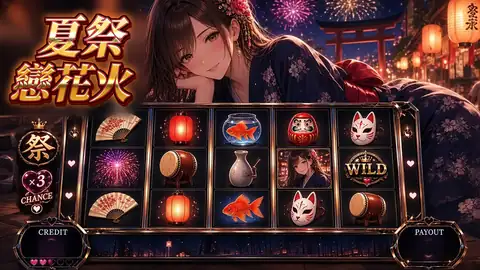
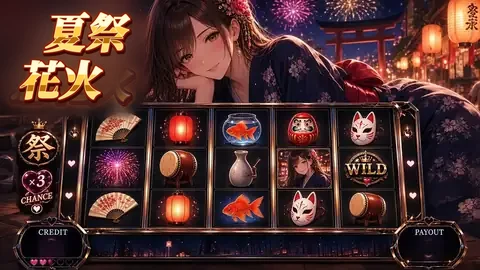
v21.8 rename: dragon-fortune-palace, 夏祭花火

Changed region(s): [[0.0, 0.0, 0.3125, 0.4148]]

diff --git a/index.html b/index.html
@@ -2,12 +2,12 @@
 <meta name="viewport" content="width=device-width,initial-scale=1,viewport-fit=cover">
 <title>龍運金殿 DRAGON FORTUNE PALACE｜僅供娛樂</title>
 <meta property="og:title" content="龍運金殿｜僅供娛樂・虛擬籌碼"><meta property="og:description" content="龍運金殿：虛擬籌碼娛樂城。僅供娛樂・虛擬籌碼・無真實金錢。"><meta property="og:image" content="assets/logo21.webp"><meta name="application-name" content="龍運金殿"><meta name="description" content="虛擬籌碼的日系柏青嫂風格娛樂城。僅供娛樂・虛擬籌碼・無真實金錢。">
-<link rel="preload" href="assets/lobby/bg.webp?v=217" as="image">
+<link rel="preload" href="assets/lobby/bg.webp?v=218" as="image">
 <style>
-@font-face{font-family:"KleeSub";src:url(assets/fonts/klee-sub.woff2?v=217) format("woff2");font-weight:600;font-display:swap}
+@font-face{font-family:"KleeSub";src:url(assets/fonts/klee-sub.woff2?v=218) format("woff2");font-weight:600;font-display:swap}
 *{box-sizing:border-box}html,body{margin:0;height:100%}
 body{background:#07020a;color:#fbe9f3;font-family:"Noto Sans TC","Noto Sans CJK TC",sans-serif;overflow-x:hidden;-webkit-tap-highlight-color:transparent}
-body::before{content:"";position:fixed;inset:0;z-index:-2;background:url(assets/lobby/bg.webp?v=217) center 30%/cover no-repeat}
+body::before{content:"";position:fixed;inset:0;z-index:-2;background:url(assets/lobby/bg.webp?v=218) center 30%/cover no-repeat}
 body::after{content:"";position:fixed;inset:0;z-index:-1;background:linear-gradient(180deg,rgba(7,2,10,.55),rgba(7,2,10,.25) 30%,rgba(7,2,10,.7) 70%,rgba(7,2,10,.95))}
 @media (min-width:800px){body::before{background-size:auto 140%;background-position:center 30%;box-shadow:inset 0 0 0 100vmax rgba(0,0,0,0)}body{background:radial-gradient(ellipse at 50% 20%,#2a0a26,#07020a 70%)}}
 button{font:inherit;color:inherit;cursor:pointer;touch-action:manipulation}
@@ -105,11 +105,11 @@ html,body{background-color:#1a0618}
 @keyframes mq2{from{transform:translateX(0)}to{transform:translateX(-50%)}}
 @media (max-width:440px){.top{gap:4px}.pill{height:34px;padding:0 9px}.bal b{font-size:16px}.coin{width:17px;height:17px}.ib{width:31px!important;height:31px!important;font-size:14px!important;flex:none}.top .sp{flex:1 1 0;min-width:0}}
 @media (max-width:370px){.ib{width:29px!important;height:29px!important;font-size:13px!important}.lv{max-width:30vw;padding:0 8px}.top{gap:3px}}
-</style><link rel="stylesheet" href="gallery.css?v=217"><style id="tcd184">@font-face{font-family:"TCDisp";src:url(assets/fonts/tcdisp.woff2?v=217) format("woff2");font-weight:900;font-display:swap}
+</style><link rel="stylesheet" href="gallery.css?v=218"><style id="tcd184">@font-face{font-family:"TCDisp";src:url(assets/fonts/tcdisp.woff2?v=218) format("woff2");font-weight:900;font-display:swap}
 .neon2{font-family:"TCDisp","Noto Serif TC",serif!important;font-weight:900!important;font-style:italic!important;letter-spacing:.12em!important}
 .card .t b{font:900 italic 19px/1.2 "TCDisp","Noto Serif TC",serif!important;letter-spacing:.02em;background:linear-gradient(#fff8d8,#ffd56a 55%,#d08a1a);-webkit-background-clip:text;background-clip:text;color:transparent;filter:drop-shadow(1px 2px 0 #3a0418)}
 </style></head><body>
-<div id="load"><img class="l21logo" src="assets/logo21.webp?v=217" alt="龍運金殿" width="900" height="420"><div class="lb"><i id="lbi"></i></div><button id="enter">點擊進入 ♡ 點擊開始</button><small>僅供娛樂・虛擬籌碼・無真實金錢</small></div>
+<div id="load"><img class="l21logo" src="assets/logo21.webp?v=218" alt="龍運金殿" width="900" height="420"><div class="lb"><i id="lbi"></i></div><button id="enter">點擊進入 ♡ 點擊開始</button><small>僅供娛樂・虛擬籌碼・無真實金錢</small></div>
 <div class="wrap">
 <div class="top">
 <div class="pill bal" aria-label="虛擬籌碼餘額"><span class="coin"></span><b id="bal">0</b></div>
@@ -121,7 +121,7 @@ html,body{background-color:#1a0618}
 <button class="ib" id="bLb" aria-label="排行榜">🏆</button>
 <button class="ib" id="bBgm" aria-label="背景音樂" aria-pressed="true">🎵</button>
 </div>
-<header class="sign"><img class="l21logo l21logoT" src="assets/logo21.webp?v=217" alt="龍運金殿" width="900" height="420"></header>
+<header class="sign"><img class="l21logo l21logoT" src="assets/logo21.webp?v=218" alt="龍運金殿" width="900" height="420"></header>
 <div class="mq" aria-hidden="true"><div id="mq"></div></div><div class="czno">僅供娛樂・虛擬籌碼・無真實金錢</div>
 <section class="jp" aria-label="彩金池">
 <div class="jpc g"><small>GRAND JACKPOT</small><b id="jp2">0</b></div>
@@ -137,14 +137,14 @@ html,body{background-color:#1a0618}
 <dialog id="dFree"><h3>免費籌碼</h3><div class="row"><div class="x"><b id="fAmt">每 3 小時可領一次</b><small id="fTxt"></small></div><button class="btn hot" id="fClaim">領取</button></div><p class="note">VIP 等級越高，每次可領越多・虛擬籌碼</p><button class="btn close" data-close>關閉</button></dialog>
 <dialog id="dMiss"><h3>今日任務</h3><div id="miss"></div><h3 style="margin-top:14px">成就</h3><div id="ach"></div><button class="btn close" data-close>關閉</button></dialog>
 <dialog id="dLb"><h3>排行榜</h3><span class="warn">⚠ 示範資料：除「你」以外皆為虛構玩家，非真實排名</span><table class="lbt" id="lbt"></table><p class="note">依累積贏得虛擬籌碼排序・僅供娛樂</p><button class="btn close" data-close>關閉</button></dialog>
-<script src="casino.js?v=217"></script>
+<script src="casino.js?v=218"></script>
 <script>
 (()=>{const $=id=>document.getElementById(id),LS=localStorage,fmt=n=>Math.floor(n).toLocaleString('en-US');
 const GAMES=[
-{id:'matsuri',href:'matsuri.html',name:'夏祭戀花火',img:'assets/matsuri/card.webp?v=217',tags:['RTP 94.0%','低波動','免費遊戲 ×2倍'],rib:'和風祭典'},
-{id:'samurai',href:'samurai.html',name:'天下布武',img:'assets/samurai/card.webp?v=217',tags:['RTP 93.9%','高波動','免費遊戲 ×3倍'],rib:'NEW'},
-{id:'neko',href:'neko.html',name:'招財大作戰',img:'assets/neko/card.webp?v=217',tags:['RTP 94.0%','低波動','免費遊戲 ×2倍'],rib:'NEW'},
-{id:'sakura',href:'sakura.html',name:'櫻花斬',img:'assets/sakura/card.webp?v=217',tags:['RTP 94.1%','中波動','免費遊戲 ×3倍'],rib:'NEW'}];
+{id:'matsuri',href:'matsuri.html',name:'夏祭花火',img:'assets/matsuri/card.webp?v=218',tags:['RTP 94.0%','低波動','免費遊戲 ×2倍'],rib:'和風祭典'},
+{id:'samurai',href:'samurai.html',name:'天下布武',img:'assets/samurai/card.webp?v=218',tags:['RTP 93.9%','高波動','免費遊戲 ×3倍'],rib:'NEW'},
+{id:'neko',href:'neko.html',name:'招財大作戰',img:'assets/neko/card.webp?v=218',tags:['RTP 94.0%','低波動','免費遊戲 ×2倍'],rib:'NEW'},
+{id:'sakura',href:'sakura.html',name:'櫻花斬',img:'assets/sakura/card.webp?v=218',tags:['RTP 94.1%','中波動','免費遊戲 ×3倍'],rib:'NEW'}];
 $('wall').innerHTML=GAMES.map(g=>`<a class="card" href="${g.href}" data-id="${g.id}"><span class="rib">${g.rib}</span><img src="${g.img}" alt="${g.name}" loading="lazy" decoding="async" width="720" height="405"><div class="meta"><div class="t"><b>${g.name}</b><small>${g.tags.map(t=>`<span class="tag">${t}</span>`).join('')}</small></div><span class="play">PLAY</span></div></a>`).join('')+
 `<div class="card lock" aria-hidden="true"><div class="ph">COMING SOON</div><div class="meta"><div class="t"><b>新機台 準備中</b><small><span class="tag">敬請期待</span></small></div></div></div>`;
 // ---- UI refresh ----
@@ -194,12 +194,12 @@ function note(f,t,d,type,g,dest){const o=ac.createOscillator(),e=ac.createGain()
 const CH=[[57,60,64,67],[53,57,60,64],[55,59,62,65],[52,55,59,62]],mf=m=>440*Math.pow(2,(m-69)/12);let bar=0,nextT=0;
 function sched(){if(!ac||!bgmOn)return;while(nextT<ac.currentTime+1.2){const c=CH[bar%4],t=nextT;c.forEach(m=>note(mf(m),t,3.6,'sine',.035));note(mf(c[0]-12),t,3.4,'triangle',.06);
 [0,.5,1,1.5,2,2.5,3,3.5].forEach((k,i)=>{if(i%2||Math.random()<.5)note(mf(c[(i+bar)%4]+12),t+k,.45,'triangle',.022)});nextT+=4;bar++}}
-let lbB=null,lbS=null,lbL=0;function lbLoad(){if(lbL||!ac)return;lbL=1;fetch('assets/audio/bgm_lobby.mp3?v=217').then(r=>r.arrayBuffer()).then(a=>new Promise((o,n)=>{const p=ac.decodeAudioData(a,o,n);p&&p.then&&p.then(o,n)})).then(b=>{lbB=b;if(bgmOn)bgmStart()}).catch(()=>{})}
+let lbB=null,lbS=null,lbL=0;function lbLoad(){if(lbL||!ac)return;lbL=1;fetch('assets/audio/bgm_lobby.mp3?v=218').then(r=>r.arrayBuffer()).then(a=>new Promise((o,n)=>{const p=ac.decodeAudioData(a,o,n);p&&p.then&&p.then(o,n)})).then(b=>{lbB=b;if(bgmOn)bgmStart()}).catch(()=>{})}
 function bgmStart(){aInit();if(!ac)return;lbLoad();if(lbB){ac.resume&&ac.resume();clearInterval(bgmT);if(bgmOn){if(!lbS){lbS=ac.createBufferSource();lbS.buffer=lbB;lbS.loop=true;lbS.connect(mg);lbS.start()}mg.gain.cancelScheduledValues(ac.currentTime);mg.gain.setValueAtTime(mg.gain.value,ac.currentTime);mg.gain.linearRampToValueAtTime(.55,ac.currentTime+1.5)}return}
 bgmStart0()}
 function bgmStart0(){aInit();if(!ac)return;ac.resume&&ac.resume();if(bgmOn){mg.gain.cancelScheduledValues(ac.currentTime);mg.gain.linearRampToValueAtTime(.9,ac.currentTime+1.5);nextT=Math.max(nextT,ac.currentTime+.05);clearInterval(bgmT);bgmT=setInterval(sched,400);sched()}}
 function bgmFade(){if(ac&&mg)mg.gain.linearRampToValueAtTime(0,ac.currentTime+.25)}
-const LSX={};function lsxL(n){if(LSX[n]!==undefined||!ac)return;LSX[n]=0;fetch('assets/audio/sfx_'+n+'.mp3?v=217').then(r=>r.arrayBuffer()).then(a=>new Promise((o,x)=>{const p=ac.decodeAudioData(a,o,x);p&&p.then&&p.then(o,x)})).then(b=>LSX[n]=b).catch(()=>{})}
+const LSX={};function lsxL(n){if(LSX[n]!==undefined||!ac)return;LSX[n]=0;fetch('assets/audio/sfx_'+n+'.mp3?v=218').then(r=>r.arrayBuffer()).then(a=>new Promise((o,x)=>{const p=ac.decodeAudioData(a,o,x);p&&p.then&&p.then(o,x)})).then(b=>LSX[n]=b).catch(()=>{})}
 function sfx(k){if(!ac)return;['click','chime','coin','enter'].forEach(lsxL);const nm=k===9?'enter':k>=2?'chime':'click';if(LSX[nm]){const s=ac.createBufferSource(),g=ac.createGain();g.gain.value=.8;s.buffer=LSX[nm];s.connect(g).connect(ac.destination);s.start(0,.05);return}const t=ac.currentTime;const g=ac.createGain();g.gain.value=1;g.connect(ac.destination);
 if(k===1)note(1320,t,.08,'square',.03,g);else if(k===2){[0,.07,.14].forEach((d,i)=>note([1047,1319,1568][i],t+d,.25,'triangle',.06,g))}else if(k===3){note(523,t,.15,'triangle',.08,g);note(784,t+.08,.3,'triangle',.08,g)}}
 $('bBgm').onclick=()=>{bgmOn=!bgmOn;LS.setItem('cz_bgm',bgmOn?'1':'0');$('bBgm').setAttribute('aria-pressed',bgmOn);$('bBgm').style.opacity=bgmOn?1:.5;if(bgmOn)bgmStart();else bgmFade()};$('bBgm').style.opacity=bgmOn?1:.5;
@@ -211,4 +211,4 @@ const go=()=>{$('load').classList.add('out');bgmStart();CZ.vib(10);setTimeout(()
 if(sessionStorage.getItem('cz_in')){$('load').remove();addEventListener('pointerdown',bgmStart,{once:true})}else $('enter').addEventListener('click',()=>sessionStorage.setItem('cz_in','1'));
 refresh();
 })();
-</script><script src="gallery.js?v=217"></script><script>document.getElementById("bGal").onclick=()=>CZGAL.open();document.getElementById("galN").textContent=CZGAL.count()+"/"+CZGAL.total</script><link rel="stylesheet" href="life21.css?v=217"><link rel="stylesheet" href="lobby21.css?v=217"><script src="lobby21.js?v=217"></script></body></html>
+</script><script src="gallery.js?v=218"></script><script>document.getElementById("bGal").onclick=()=>CZGAL.open();document.getElementById("galN").textContent=CZGAL.count()+"/"+CZGAL.total</script><link rel="stylesheet" href="life21.css?v=218"><link rel="stylesheet" href="lobby21.css?v=218"><script src="lobby21.js?v=218"></script></body></html>

diff --git a/casino.js b/casino.js
@@ -4,7 +4,7 @@ const LS=localStorage,J=(k,d)=>{try{const v=JSON.parse(LS.getItem(k));return v==
 const IN_M=!!window.CZM,RM=matchMedia('(prefers-reduced-motion: reduce)').matches;
 const JP={seed:[500,5000,50000],name:['MINI','MAJOR','GRAND'],c:0.008,split:[.3,.3,.4],w:[.70,.25,.05],d:200000};
 const VIP=[[1,'一般會員','#c9c3d6'],[5,'銅卡會員','#e0915a'],[10,'銀卡會員','#dfe6f2'],[20,'金卡會員','#ffd27a'],[35,'白金會員','#bff4ff'],[50,'鑽石會員','#ff9de0']];
-const MACH={love:'夜色戀曲♡',matsuri:'夏祭戀花火',caishen:'財神降臨'};
+const MACH={love:'夜色戀曲♡',matsuri:'夏祭花火',caishen:'財神降臨'};
 const need=l=>Math.round(400*Math.pow(l,1.45));
 const today=()=>{const d=new Date();return d.getFullYear()+'-'+(d.getMonth()+1)+'-'+d.getDate()};
 const MISS=[{id:'spin',t:'今日旋轉 50 次',g:50,r:300},{id:'won',t:'今日累積贏得 2,000 籌碼',g:2000,r:400},{id:'fs',t:'觸發 1 次免費旋轉',g:1,r:500},{id:'mach',t:'今日玩過 2 台不同機台',g:2,r:300},{id:'big',t:'達成 1 次 BIG WIN 以上',g:1,r:600}];
@@ -48,7 +48,7 @@ function waitIdle(f){const k=()=>{if(idle())f();else setTimeout(k,300)};setTimeo
 const SEG=[0,1,0,0,1,0,0,2,0,0,1,0,0,1,0,0,1,0,0,0];// 14 MINI, 5 MAJOR, 1 GRAND (matches 70/25/5)
 function wheelEl(){let w=document.getElementById('czWheel');if(w)return w;w=document.createElement('div');w.id='czWheel';w.setAttribute('role','dialog');w.setAttribute('aria-label','彩金轉盤');
  const cols=['#3a0a2c','#8a1a5c','#d9a441'];const g=SEG.map((s,i)=>`${cols[s]} ${i*18}deg ${(i+1)*18}deg`).join(',');
- w.innerHTML=`<img class="czframe" src="assets/lobby/frame_s.webp?v=217" alt=""><div class="czwbox"><div class="czwt">JACKPOT CHANCE!!</div><div class="czwsub">彩金轉盤</div><div class="czwheel"><div class="czwd" style="background:conic-gradient(${g})">${SEG.map((s,i)=>`<span style="transform:rotate(${i*18+9}deg)"><b class="s${s}">${JP.name[s]}</b></span>`).join('')}</div><div class="czwhub">JP</div><div class="czwptr"></div></div><div class="czwres" aria-live="assertive"></div><button class="czwgo">旋轉轉盤</button></div>`;
+ w.innerHTML=`<img class="czframe" src="assets/lobby/frame_s.webp?v=218" alt=""><div class="czwbox"><div class="czwt">JACKPOT CHANCE!!</div><div class="czwsub">彩金轉盤</div><div class="czwheel"><div class="czwd" style="background:conic-gradient(${g})">${SEG.map((s,i)=>`<span style="transform:rotate(${i*18+9}deg)"><b class="s${s}">${JP.name[s]}</b></span>`).join('')}</div><div class="czwhub">JP</div><div class="czwptr"></div></div><div class="czwres" aria-live="assertive"></div><button class="czwgo">旋轉轉盤</button></div>`;
  document.body.appendChild(w);return w}
 function wheel(total){window.__hold=true;const w=wheelEl(),d=w.querySelector('.czwd'),btn=w.querySelector('.czwgo'),res=w.querySelector('.czwres');
  res.textContent='';d.style.transition='none';d.style.transform='rotate(0deg)';w.classList.add('on');btn.disabled=false;btn.textContent='旋轉轉盤';vib([30,40,30]);
@@ -66,7 +66,7 @@ window.CZ.wheel=wheel;
 function machineUI(){const $=id=>document.getElementById(id),mach=$('machine');
  // 大獎 cutscene (user art) before big wins / bonus / jackpot
  const at=document.createElement('div');at.id='czAtari';at.setAttribute('role','dialog');at.setAttribute('aria-label','大獎');
- at.innerHTML='<div class="ab"></div><div class="ai"></div><div class="asw"></div><div class="apt"></div><img class="afr" src="assets/lobby/frame_s.webp?v=217" alt=""><div class="atx"><b></b><i></i></div><div class="askip">點擊略過</div>';
+ at.innerHTML='<div class="ab"></div><div class="ai"></div><div class="asw"></div><div class="apt"></div><img class="afr" src="assets/lobby/frame_s.webp?v=218" alt=""><div class="atx"><b></b><i></i></div><div class="askip">點擊略過</div>';
  document.body.appendChild(at);const pt=at.querySelector('.apt');for(let i=0;i<16;i++){const e=document.createElement('u');e.style.left=(Math.random()*100)+'%';e.style.animationDelay=(-Math.random()*2.4)+'s';e.style.animationDuration=(2+Math.random()*1.6)+'s';e.style.setProperty('--dx',(Math.random()*120-60)+'px');pt.appendChild(e)}
  function sting(){try{if(typeof ac==='undefined'||!ac)return;const t=ac.currentTime,g=ac.createGain();g.gain.value=.5;g.connect(ac.destination);
   [[523,0],[659,.08],[784,.16],[1047,.24],[1568,.36]].forEach(([f,d])=>{const o=ac.createOscillator(),e=ac.createGain();o.type='triangle';o.frequency.value=f;e.gain.setValueAtTime(0,t+d);e.gain.linearRampToValueAtTime(.18,t+d+.02);e.gain.exponentialRampToValueAtTime(.001,t+d+.9);o.connect(e).connect(g);o.start(t+d);o.stop(t+d+1)});
@@ -77,13 +77,13 @@ function machineUI(){const $=id=>document.getElementById(id),mach=$('machine');
  function atEnd(){if(!at.classList.contains('on'))return;clearTimeout(atT);at.className='';window.__hold=false;const f=atCb;atCb=null;f&&f()}
  at.addEventListener('pointerdown',atEnd);addEventListener('keydown',e=>{if(at.classList.contains('on')&&(e.key===' '||e.key==='Enter'||e.key==='Escape')){e.preventDefault();e.stopPropagation();atEnd()}},true);
  CZ.atari=atari;
- (window.requestIdleCallback||setTimeout)(()=>{const w=innerWidth>900;['assets/lobby/'+(w?'atari':'atari_s')+'.webp?v=217','assets/lobby/atari_bl.webp?v=217','assets/lobby/frame_s.webp?v=217',`assets/${CZM.id}/bigbonus.webp?v=217`,`assets/${CZM.id}/hero.webp?v=217`,`assets/${CZM.id}/cutin.webp?v=217`].forEach(u=>{const i=new Image();i.src=u;i.decode&&i.decode().catch(()=>{})})},{timeout:2500});
+ (window.requestIdleCallback||setTimeout)(()=>{const w=innerWidth>900;['assets/lobby/'+(w?'atari':'atari_s')+'.webp?v=218','assets/lobby/atari_bl.webp?v=218','assets/lobby/frame_s.webp?v=218',`assets/${CZM.id}/bigbonus.webp?v=218`,`assets/${CZM.id}/hero.webp?v=218`,`assets/${CZM.id}/cutin.webp?v=218`].forEach(u=>{const i=new Image();i.src=u;i.decode&&i.decode().catch(()=>{})})},{timeout:2500});
  const _bw=window.bigWin;window.bigWin=function(won,total,o={}){if(o.noStamp)return _bw(won,total,o);const x=won/total;
   atari(x>=50?'傳說大獎':x>=25?'超級大獎':'大獎',x>=50?'龍運降臨!!':x>=25?'金殿狂歡!!':'好運降臨!!',()=>_bw(won,total,o))};
  const _fi=window.fsIntro;window.fsIntro=function(re){if(re)return _fi(re);atari('BONUS!!','免費遊戲 開始',()=>_fi(re))};
  const _wh=CZ.wheel;CZ.wheel=function(t){atari('彩金','大獎機會!!',()=>_wh(t))};
  // gold-sakura frame on win tiers
- const bwEl=$('bw');if(bwEl){const f=document.createElement('img');f.className='czframe';f.src='assets/lobby/frame_s.webp?v=217';f.alt='';bwEl.appendChild(f)}
+ const bwEl=$('bw');if(bwEl){const f=document.createElement('img');f.className='czframe';f.src='assets/lobby/frame_s.webp?v=218';f.alt='';bwEl.appendChild(f)}
  const sp=$('spinBtn');sp.addEventListener('pointerdown',()=>vib(12),{passive:true});
  // control bar: move existing controls into one flex bar
  const bar=document.createElement('div');bar.className='czbar';
@@ -136,7 +136,7 @@ if(IN_M)addEventListener('load',czPreSym);
 function czMenuFix(){const m=document.getElementById('menu16');if(m&&m.parentNode!==document.body)document.body.appendChild(m);const b=document.querySelector('.czbar');const set=()=>b&&document.documentElement.style.setProperty('--czbarH',Math.round(b.getBoundingClientRect().height)+'px');set();addEventListener('resize',set);document.getElementById('menuBtn')?.addEventListener('click',set)}
 if(IN_M)addEventListener('load',czMenuFix);
 function czHero(){const mach=document.getElementById('machine'),inn=mach&&mach.querySelector('.inner');if(!inn||document.getElementById('czHero'))return;
- const id=(location.pathname.split('/').pop()||'').replace('.html','');const V='?v=217';document.documentElement.style.setProperty('--czhero',`url(assets/${id}/hero.webp${V})`);
+ const id=(location.pathname.split('/').pop()||'').replace('.html','');const V='?v=218';document.documentElement.style.setProperty('--czhero',`url(assets/${id}/hero.webp${V})`);
  const h=document.createElement('div');h.id='czHero';h.setAttribute('aria-hidden','true');
  h.innerHTML=`<div class="czhi" style="background-image:url(assets/${id}/hero.webp${V})"></div><div class="czhs"></div><i class="czhp"></i><i class="czhp b"></i><img class="czhl" src="assets/${id}/logo.webp${V}" alt=""><div class="czhf"></div>`;
  mach.insertBefore(h,inn);let F=null;const mq=matchMedia('(max-width:620px) and (orientation:portrait)');

diff --git a/casino.css b/casino.css
@@ -97,10 +97,10 @@ body::before{background:radial-gradient(ellipse at 50% 30%,#2a0a22,#07020a 70%)!
 /* 大当り cutscene */
 #czAtari{position:fixed;inset:0;z-index:90;display:block;visibility:hidden;contain:strict;overflow:hidden;background:#05010a;cursor:pointer}
 #czAtari.on{visibility:visible}#czAtari:not(.on) *{animation:none!important}
-#czAtari .ab{position:absolute;inset:0;background:url(assets/lobby/atari_bl.webp?v=217) center/cover}
-#czAtari .ai{position:absolute;inset:0;background:url(assets/lobby/atari.webp?v=217) 55% 40%/cover no-repeat;will-change:transform}
+#czAtari .ab{position:absolute;inset:0;background:url(assets/lobby/atari_bl.webp?v=218) center/cover}
+#czAtari .ai{position:absolute;inset:0;background:url(assets/lobby/atari.webp?v=218) 55% 40%/cover no-repeat;will-change:transform}
 @media (max-aspect-ratio:1/1){#czAtari .ai{background-size:185% auto;background-position:60% 46%;-webkit-mask:linear-gradient(transparent 22%,#000 32%,#000 68%,transparent 78%);mask:linear-gradient(transparent 22%,#000 32%,#000 68%,transparent 78%)}}
-@media (max-width:900px){#czAtari .ai{background-image:url(assets/lobby/atari_s.webp?v=217)}}
+@media (max-width:900px){#czAtari .ai{background-image:url(assets/lobby/atari_s.webp?v=218)}}
 #czAtari.on .ai{animation:atZ 2.3s cubic-bezier(.2,.9,.3,1) both}
 @keyframes atZ{0%{transform:scale(1.35)}100%{transform:scale(1.02)}}
 #czAtari .asw{position:absolute;inset:-20% -60%;background:linear-gradient(105deg,transparent 40%,rgba(255,240,200,.55) 48%,rgba(255,150,210,.35) 52%,transparent 60%);transform:translateX(-60%);will-change:transform}
@@ -259,7 +259,7 @@ dialog,.modal .box,.pop{max-height:calc(100dvh - 16px)!important;overflow:auto!i
 #czMG .mgok[hidden]{display:none}
 
 @media (max-width:620px) and (orientation:portrait){.bw .art{background:var(--czhero) 50% 8%/cover no-repeat!important;opacity:.85!important}}
-@media (max-width:620px) and (orientation:portrait){#czAtari .ab{background:linear-gradient(rgba(10,2,10,.35),rgba(10,2,10,.55)),var(--czhero,url(assets/lobby/atari_bl.webp?v=217)) 50% 10%/cover no-repeat!important}}
+@media (max-width:620px) and (orientation:portrait){#czAtari .ab{background:linear-gradient(rgba(10,2,10,.35),rgba(10,2,10,.55)),var(--czhero,url(assets/lobby/atari_bl.webp?v=218)) 50% 10%/cover no-repeat!important}}
 /* v18.1 portrait control spacing + menu stacking */
 html{-webkit-text-size-adjust:100%;text-size-adjust:100%}
 @media (max-width:620px) and (orientation:portrait){
@@ -292,14 +292,14 @@ body.czau #czAuStop{display:block;position:fixed;z-index:60;border-radius:50%;cu
 /* v18.3 premium 激 badge on reel-window top edge */
 #czGeki{position:fixed;left:50%;top:0;width:clamp(84px,24vw,150px);aspect-ratio:1;z-index:72;pointer-events:none;transform:translate(-50%,-50%) scale(0);opacity:0}
 #czGeki img{width:100%;height:100%;display:block;filter:drop-shadow(0 6px 10px rgba(0,0,0,.6))}
-#czGeki i{position:absolute;inset:0;-webkit-mask:url(assets/lobby/geki.webp?v=217) center/100% no-repeat;mask:url(assets/lobby/geki.webp?v=217) center/100% no-repeat;background:linear-gradient(115deg,transparent 35%,rgba(255,255,255,.85) 48%,transparent 60%) no-repeat;background-size:250% 100%;background-position:150% 0}
+#czGeki i{position:absolute;inset:0;-webkit-mask:url(assets/lobby/geki.webp?v=218) center/100% no-repeat;mask:url(assets/lobby/geki.webp?v=218) center/100% no-repeat;background:linear-gradient(115deg,transparent 35%,rgba(255,255,255,.85) 48%,transparent 60%) no-repeat;background-size:250% 100%;background-position:150% 0}
 #czGeki.go{animation:czGk 1.45s cubic-bezier(.2,.9,.3,1) both}
 #czGeki.go i{animation:czGkS .6s .32s ease-out both}
 @keyframes czGk{0%{opacity:0;transform:translate(-50%,-140%) scale(1.9) rotate(-8deg)}14%{opacity:1;transform:translate(-50%,-50%) scale(.92) rotate(0)}20%{transform:translate(-50%,-50%) scale(1.06)}26%,80%{opacity:1;transform:translate(-50%,-50%) scale(1)}100%{opacity:0;transform:translate(-50%,-50%) scale(1.25)}}
 @keyframes czGkS{from{background-position:150% 0}to{background-position:-60% 0}}
 @media (prefers-reduced-motion:reduce){#czGeki.go{animation:czGkR 1.4s both}#czGeki.go i{animation:none}@keyframes czGkR{0%,90%{opacity:1;transform:translate(-50%,-50%) scale(1)}100%{opacity:0;transform:translate(-50%,-50%) scale(1)}}}
 /* v18.4 pachinko display typography: Noto Serif TC Black, forward slant, metallic fill, extrude */
-@font-face{font-family:"TCDisp";src:url(assets/fonts/tcdisp.woff2?v=217) format("woff2");font-weight:900;font-style:normal;font-display:swap}
+@font-face{font-family:"TCDisp";src:url(assets/fonts/tcdisp.woff2?v=218) format("woff2");font-weight:900;font-style:normal;font-display:swap}
 #czEn .czban,.slam,.bw .tier,#bwJp,#czAtari .atx,#czAtari .atx *,#czMG h2,#czMG h3,#czMG .mgt,.czdisp,#czWheel .czwt,.fsBanner,#fsBanner,.fsb{font-family:"TCDisp","Noto Serif TC","Noto Sans TC",serif!important;font-weight:900!important;font-style:italic!important;font-synthesis:style;letter-spacing:.02em}
 #czEn .czban{color:#ffe680!important;-webkit-text-fill-color:#ffe680;-webkit-text-stroke:2px #3a0800;paint-order:stroke fill;text-shadow:0 -1px 0 #fffbe6,2px 3px 0 #c23a00,4px 6px 0 #5a0c00,6px 9px 0 #200300,0 0 18px rgba(255,140,30,.9)!important;padding:0 .2em;font-size:clamp(34px,11vw,64px)!important}
 #czEn .czban::before{content:"";position:absolute;left:-10%;right:-10%;top:50%;height:120%;transform:translateY(-50%) skewX(-18deg);z-index:-1;background:repeating-linear-gradient(100deg,transparent 0 14px,rgba(255,235,170,.35) 14px 16px,transparent 16px 34px),linear-gradient(90deg,transparent,rgba(160,0,20,.85) 18%,rgba(220,20,40,.9) 50%,rgba(160,0,20,.85) 82%,transparent);border-top:2px solid #ffd36a;border-bottom:2px solid #ffd36a;-webkit-text-fill-color:initial}

diff --git a/enshutsu.js b/enshutsu.js
@@ -21,8 +21,8 @@ function say(txt,ci,ms=2200){if(!ensure())return;bub.querySelector('b').textCont
  bub.dataset.c=ci>=0?COL[ci][0]:'';bub.classList.remove('on');void bub.offsetWidth;bub.classList.add('on');clearTimeout(bub._t);bub._t=setTimeout(()=>bub.classList.remove('on'),ms)}
 function showGem(i){if(!ensure())return;lvl=i;gem.dataset.c=COL[i][0];gem.querySelector('small').textContent=COL[i][2];gem.classList.remove('on');void gem.offsetWidth;gem.classList.add('on')}
 function ban(txt,cls,ms=1400){if(!ensure())return;banner.className='czban '+cls;banner.textContent=txt;void banner.offsetWidth;banner.classList.add('on');clearTimeout(banner._t);banner._t=setTimeout(()=>banner.classList.remove('on'),ms)}
-function cutin(){if(!ensure()||RMQ)return;const c=layer.querySelector('.czcut');c.style.backgroundImage=`url(assets/${window.CZM.id}/${window.CZM.cutImg||"hero"}.webp?v=217)`;c.classList.remove('on');void c.offsetWidth;c.classList.add('on');CZ.vib&&CZ.vib([20,40,20])}
-function gimmick(){if(!ensure())return;{const bd=document.getElementById('board')||document.querySelector('.board');if(bd){let g=document.getElementById('czGeki');if(!g){g=document.createElement('div');g.id='czGeki';g.setAttribute('aria-hidden','true');g.innerHTML='<img src="assets/lobby/geki.webp?v=217" alt="" decoding="async"><i></i>';}if(g.parentNode!==document.body)document.body.appendChild(g);{const r=bd.getBoundingClientRect();g.style.top=r.top+'px';g.style.left=(r.left+r.width/2)+'px'}g.classList.remove('go');void g.offsetWidth;g.classList.add('go');clearTimeout(g._t);g._t=setTimeout(()=>g.classList.remove('go'),1500)}}document.getElementById('machine')?.classList.add('czshake');setTimeout(()=>document.getElementById('machine')?.classList.remove('czshake'),500);CZ.vib&&CZ.vib(60)}
+function cutin(){if(!ensure()||RMQ)return;const c=layer.querySelector('.czcut');c.style.backgroundImage=`url(assets/${window.CZM.id}/${window.CZM.cutImg||"hero"}.webp?v=218)`;c.classList.remove('on');void c.offsetWidth;c.classList.add('on');CZ.vib&&CZ.vib([20,40,20])}
+function gimmick(){if(!ensure())return;{const bd=document.getElementById('board')||document.querySelector('.board');if(bd){let g=document.getElementById('czGeki');if(!g){g=document.createElement('div');g.id='czGeki';g.setAttribute('aria-hidden','true');g.innerHTML='<img src="assets/lobby/geki.webp?v=218" alt="" decoding="async"><i></i>';}if(g.parentNode!==document.body)document.body.appendChild(g);{const r=bd.getBoundingClientRect();g.style.top=r.top+'px';g.style.left=(r.left+r.width/2)+'px'}g.classList.remove('go');void g.offsetWidth;g.classList.add('go');clearTimeout(g._t);g._t=setTimeout(()=>g.classList.remove('go'),1500)}}document.getElementById('machine')?.classList.add('czshake');setTimeout(()=>document.getElementById('machine')?.classList.remove('czshake'),500);CZ.vib&&CZ.vib(60)}
 function wpick(w){let r=Math.random()*w.reduce((a,b)=>a+b,0);for(let i=0;i<w.length;i++){if((r-=w[i])<0)return i}return 0}
 let cur=null;
 const _spin=window.lcdSpin,_reach=window.lcdReach,_res=window.lcdResult;

diff --git a/minigame.js b/minigame.js
@@ -11,7 +11,7 @@ window.CZMG={draw(sc){const k=Math.min(sc,5),v=VAL[k].slice();for(let i=v.length
   const sum=v[0]+v[1]+v[2];pend={k,v,sum};return{sum}},
  play(total,cb){const p=pend;pend=null;if(!p){cb();return}
   const RM=matchMedia('(prefers-reduced-motion:reduce)').matches;const o=document.createElement('div');o.id='czMG';
-  o.innerHTML=`<div class="mgbox"><div class="mgt">${t[0]}</div><div class="mgs">${t[1]}</div><div class="mgg">${Array.from({length:9},(_,i)=>`<button class="mgc" data-i="${i}" aria-label="選擇 ${i+1}"><img src="assets/${id}/t_${t[2]}.webp?v=217" alt=""><b></b></button>`).join('')}</div><div class="mgr">已選 <b id="mgN">0</b>/3　合計 <b id="mgS">×0</b></div><button class="mgok" hidden>進入免費旋轉</button><div class="mgn">僅供娛樂・虛擬籌碼</div></div>`;
+  o.innerHTML=`<div class="mgbox"><div class="mgt">${t[0]}</div><div class="mgs">${t[1]}</div><div class="mgg">${Array.from({length:9},(_,i)=>`<button class="mgc" data-i="${i}" aria-label="選擇 ${i+1}"><img src="assets/${id}/t_${t[2]}.webp?v=218" alt=""><b></b></button>`).join('')}</div><div class="mgr">已選 <b id="mgN">0</b>/3　合計 <b id="mgS">×0</b></div><button class="mgok" hidden>進入免費旋轉</button><div class="mgn">僅供娛樂・虛擬籌碼</div></div>`;
   document.body.appendChild(o);let n=0,s=0,done=false;const cards=[...o.querySelectorAll('.mgc')],order=[];
   const fin=()=>{if(done)return;done=true;let r=3;cards.forEach(c=>{if(!c.classList.contains('open')){c.classList.add('open','rest');c.querySelector('b').textContent='×'+p.v[r++]}});
    o.querySelector('.mgr').innerHTML=`獲得 <b>×${p.sum}</b> ＝ <b>${(p.sum*total).toLocaleString()}</b> 虛擬籌碼`;const ok=o.querySelector('.mgok');ok.hidden=false;ok.onclick=close;auto=setTimeout(close,4000)};

diff --git a/gallery.js b/gallery.js
@@ -5,9 +5,9 @@ const p=Math.round(a/n*100);d.innerHTML='<div class="gi">🖼</div><div class
 requestAnimationFrame(()=>{d.classList.add('on');const i=d.querySelector('.gb i');setTimeout(()=>i.style.width=p+'%',50)});clearTimeout(d._t);d._t=setTimeout(()=>d.classList.remove('on'),3200)}catch(e){}}
 /* v17.9 heroine gallery: art unlocks by playing each machine (localStorage cz_gal) */
 (function(){
-const MS=[['matsuri','夏祭戀花火'],['samurai','天下布武'],['neko','招財大作戰'],['sakura','櫻花斬']];
+const MS=[['matsuri','夏祭花火'],['samurai','天下布武'],['neko','招財大作戰'],['sakura','櫻花斬']];
 const ART=[['card','機台畫',s=>s.spins>=1,'玩 1 次'],['cutin','演出畫面',s=>s.spins>=50,'玩 50 次'],['hero','主視覺',s=>s.spins>=150,'玩 150 次'],['bigbonus','大獎',s=>s.fs>=1,'觸發 1 次 BONUS']];
-const V='?v=217',K='cz_gal';
+const V='?v=218',K='cz_gal';
 const load=()=>{try{return JSON.parse(localStorage.getItem(K)||'{}')}catch(e){return{}}};const save=g=>localStorage.setItem(K,JSON.stringify(g));
 const st=(g,id)=>g[id]||(g[id]={spins:0,fs:0});
 function count(){const g=load();let n=0;MS.forEach(([id])=>ART.forEach(a=>{if(a[2](st(g,id)))n++}));return n}

diff --git a/czaudio.js b/czaudio.js
@@ -1,6 +1,6 @@
 /* v18.3 pre-rendered BGM/SFX (play-money casino). Falls back to synth until buffers decode. */
 (function(){
-const V='?v=217',D='assets/audio/';const B={};let ld=false,src=null,want=false,cur=null;
+const V='?v=218',D='assets/audio/';const B={};let ld=false,src=null,want=false,cur=null;
 const NAMES=['click','blip','spin','stop','tick','reach','coin','win0','win1','win2','win3','win4','bonus','collect','chime','buy','lose'];
 function ctx(){return (typeof aInit==='function'&&aInit())?ac:null}
 function dec(c,buf){return new Promise((ok,no)=>{const p=c.decodeAudioData(buf,ok,no);if(p&&p.then)p.then(ok,no)})}
